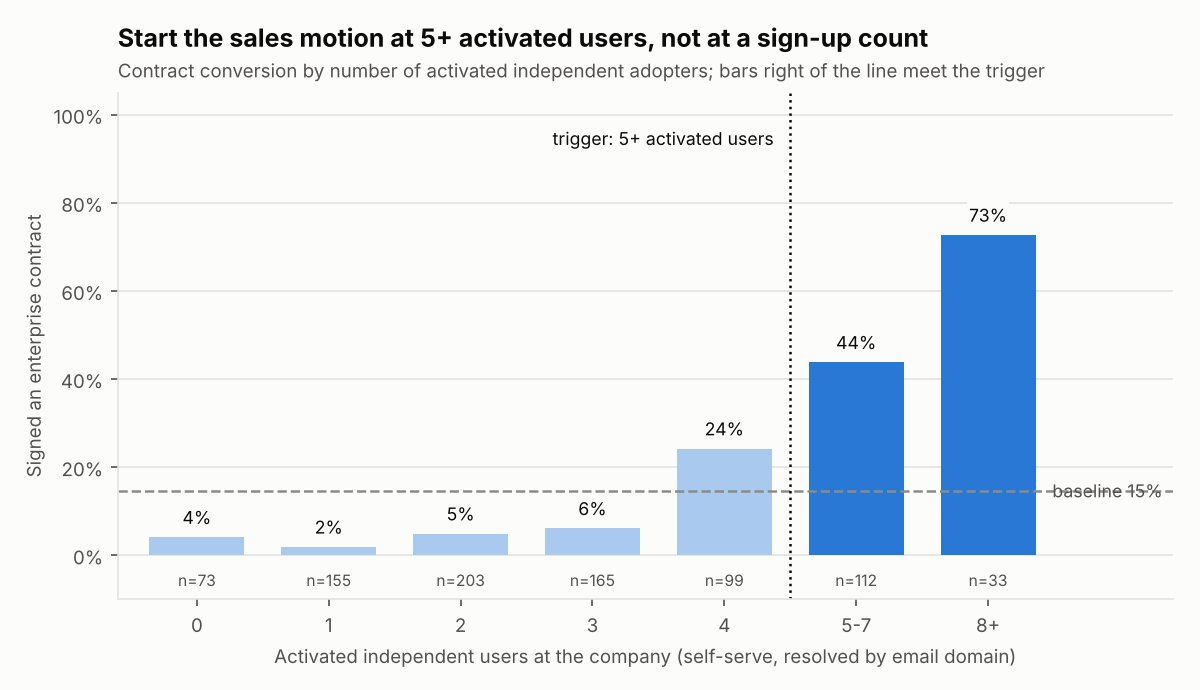
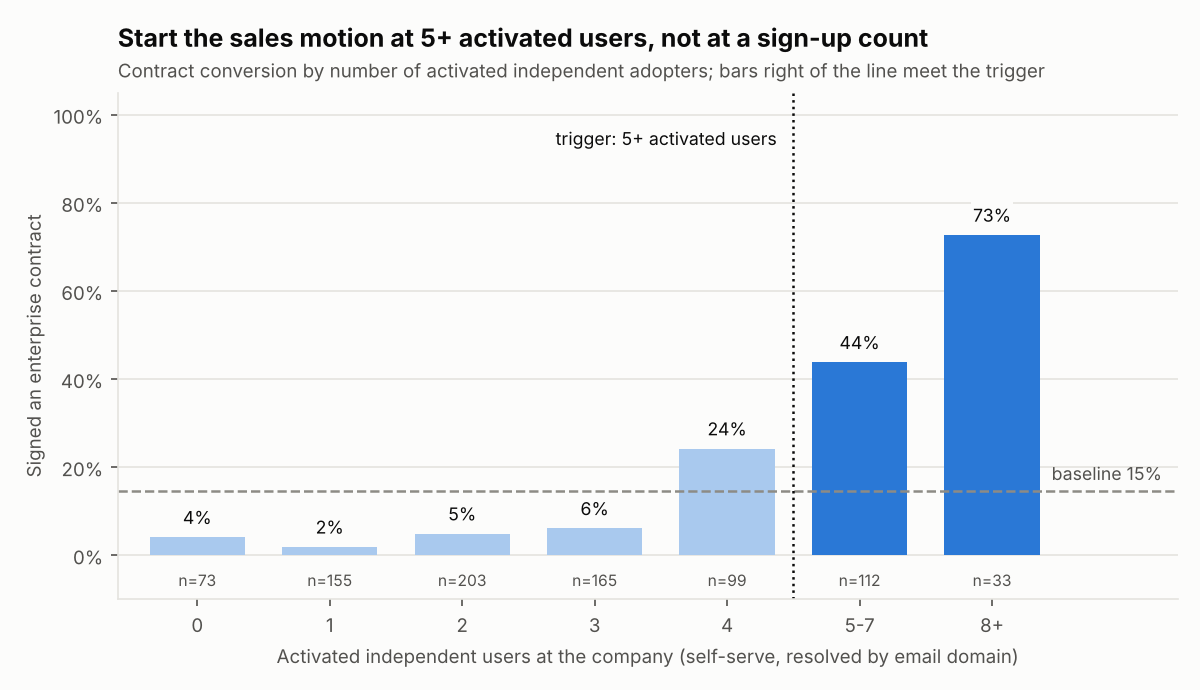
Keep the baseline label clear of its line in the trigger chart
Claude-Session: https://claude.ai/code/session_01MKijBcGuc5BL7f85fvibV2

diff --git a/sangam/report.py b/sangam/report.py
@@ -127,7 +127,7 @@ def threshold_chart(res: dict, path: Path):
         ax.text(b.get_x() + b.get_width() / 2, -0.07, f"n={n}", ha="center", fontsize=7.5, color=INK2)
     base = res["baseline_conversion"]
     ax.axhline(base, color=GRAY, lw=1.2, ls="--")
-    ax.text(len(labels) - 0.55, base, f" baseline {base:.0%}", ha="left", va="center", fontsize=8.5, color=INK2)
+    ax.text(len(labels) - 0.55, base + 0.015, f"baseline {base:.0%}", ha="left", va="bottom", fontsize=8.5, color=INK2)
     cut = next(i for i, v in enumerate(lo) if v >= k)
     ax.axvline(cut - 0.5, color=INK, lw=1.2, ls=":")
     ax.text(cut - 0.55, 0.97, f"trigger: {k}+ activated users  ", fontsize=8.5,
